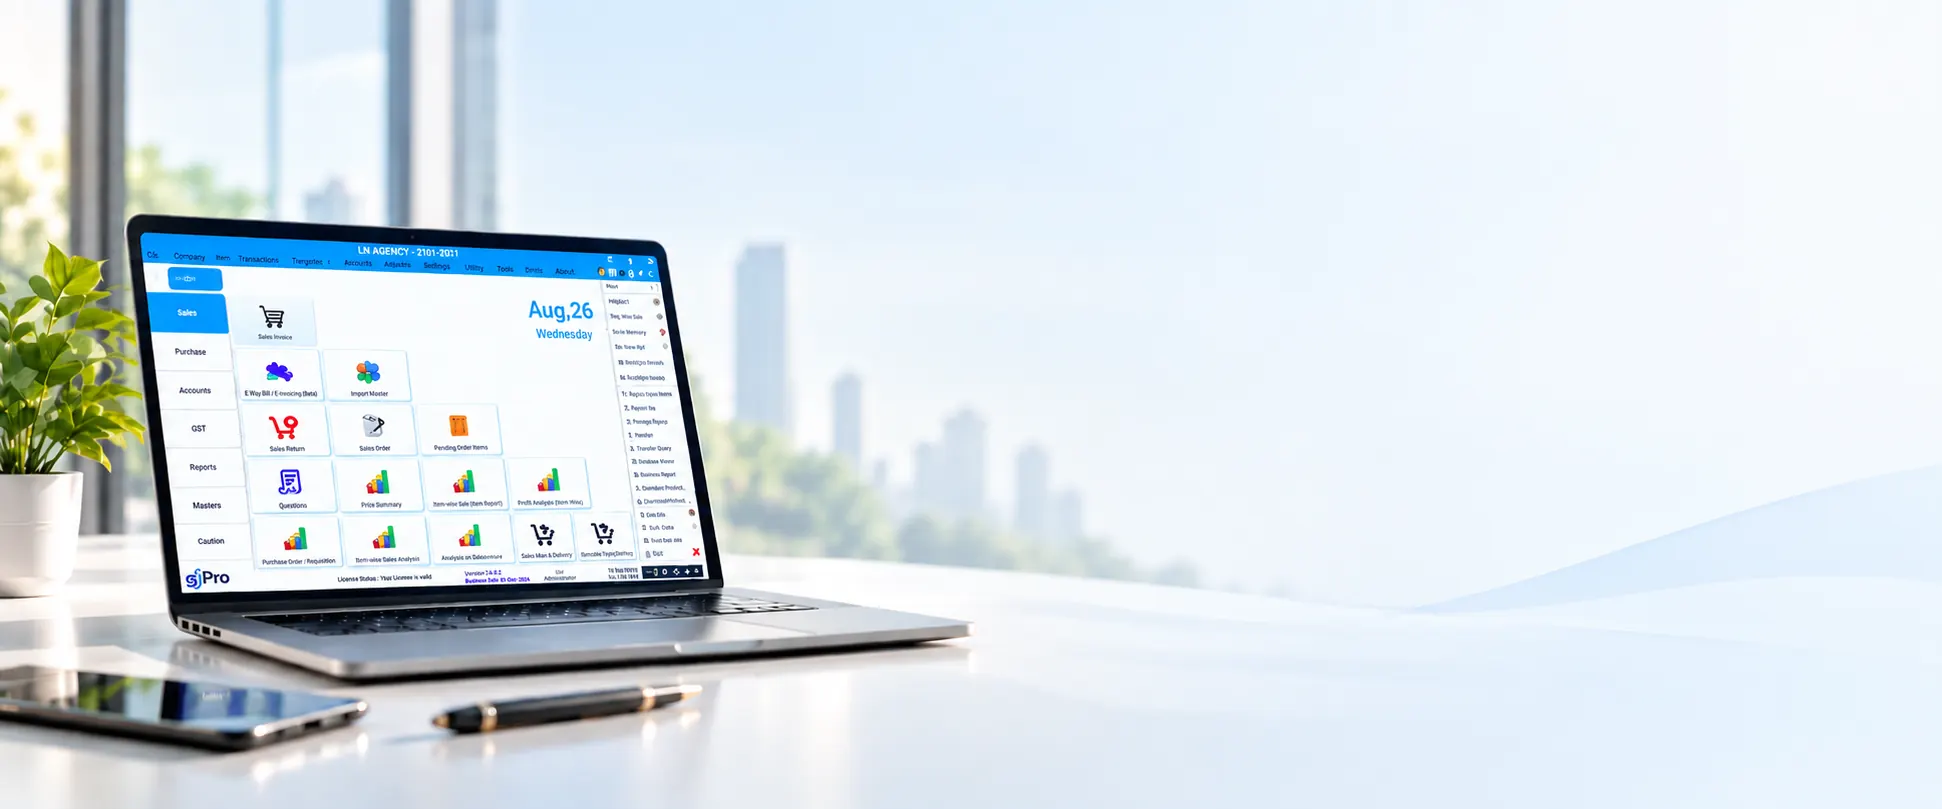
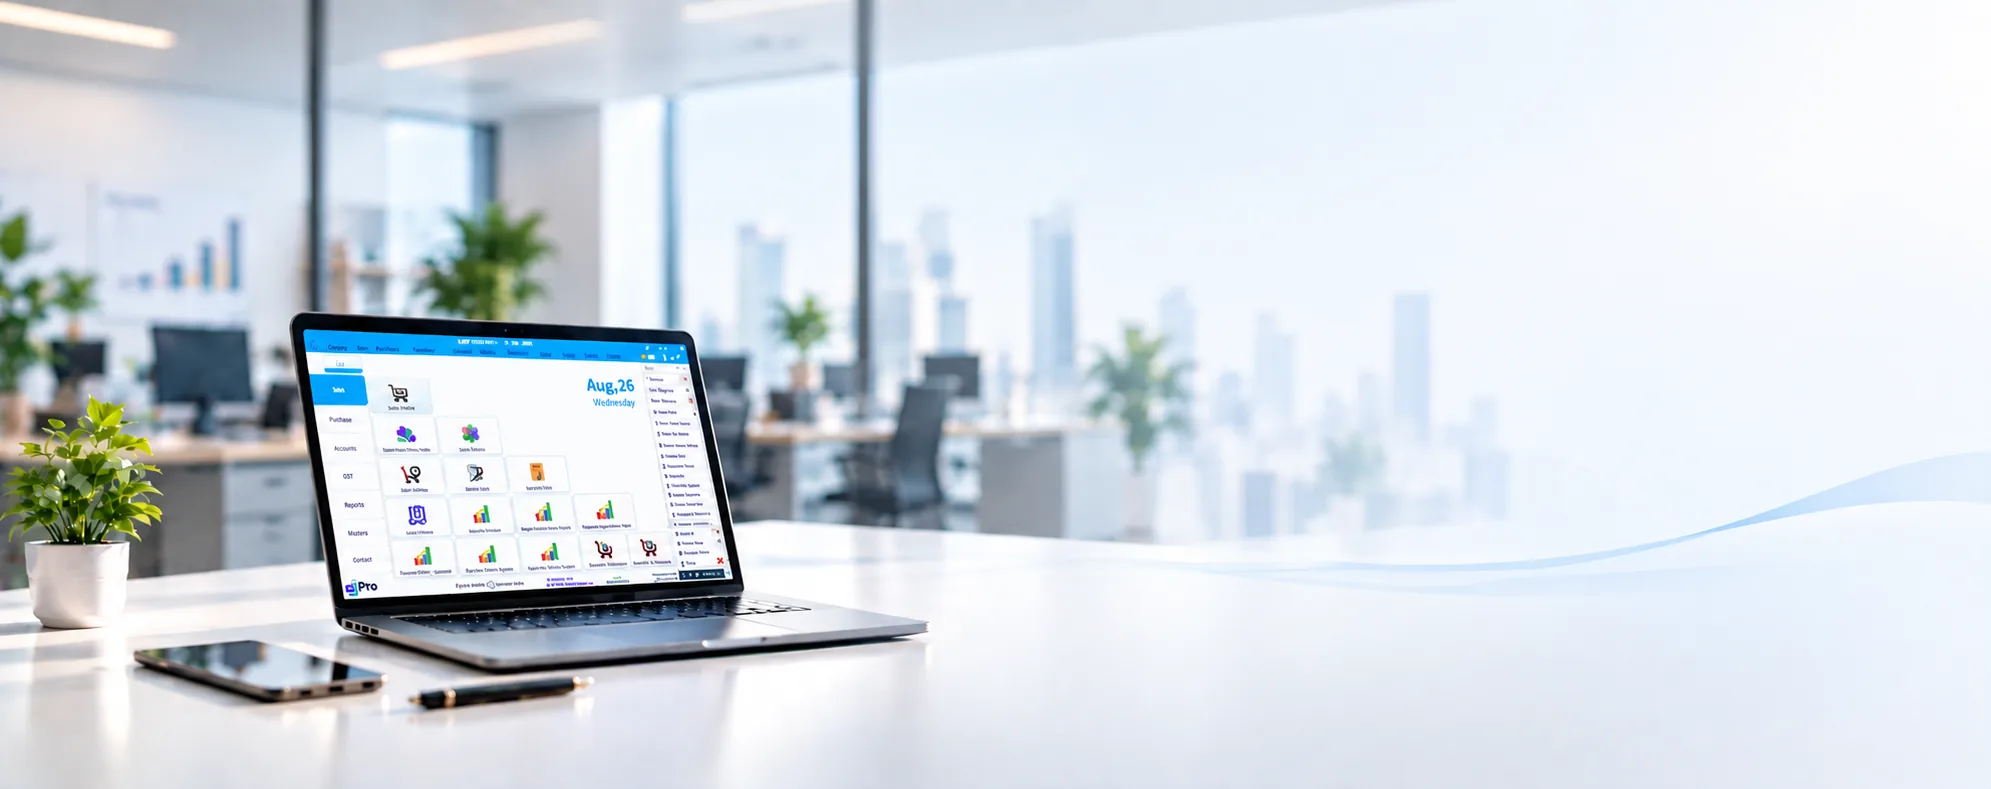
product first sec corrections completed

diff --git a/src/styles/Products.css b/src/styles/Products.css
@@ -16,44 +16,45 @@
 .gpro-hero-content {
   position: absolute;
   top: 50%;
-  right: 6%;
+  right: 10%;
   transform: translateY(-50%);
-  width: 46%;
-  max-width: 640px;
+  width: 48%;
+  max-width: 720px;
   text-align: left;
 }
 
 .gpro-hero-subtitle {
   font-family: "Inter", sans-serif;
-  font-size: 30px;
-  font-weight: 500;
-  color: #1c1c1c;
+  font-size: 13px;
+  font-weight: 700;
+  color: #6b6b6b;
   margin: 0 0 16px;
 }
 
 .gpro-hero-title {
-  font-family: "Inter", sans-serif;
-  font-size: 46px;
-  font-weight: 600;
+  font-family: "Inter", -apple-system, BlinkMacSystemFont, "Segoe UI", Roboto, sans-serif;
+  font-size: clamp(30px, 2.6vw, 50px);
+  font-weight: 400;
+  white-space: nowrap;
   line-height: 1.2;
   color: #1c1c1c;
   margin: 0 0 24px;
 }
 
 .gpro-hero-description {
-  font-family: "Inter", sans-serif;
-  font-size: 22px;
+  font-family: "Inter", -apple-system, BlinkMacSystemFont, "Segoe UI", Roboto, sans-serif;
+  font-size: 19px;
   font-weight: 400;
   line-height: 1.5;
   color: #4a4a4a;
-  margin: 0;
+  margin-top: 60px;
 }
 
 .gpro-hero-buttons {
   display: flex;
   flex-wrap: wrap;
   gap: 16px;
-  margin-top: 28px;
+  margin-top: 98px;
 }
 
 .gpro-hero-btn {
@@ -135,7 +136,7 @@
   }
 
   .gpro-hero-subtitle { font-size: 22px; }
-  .gpro-hero-title { font-size: 32px; }
+  .gpro-hero-title { font-size: 32px; white-space: normal; }
   .gpro-hero-description { font-size: 18px; }
 }
 

diff --git a/src/pages/Products.jsx b/src/pages/Products.jsx
@@ -16,7 +16,7 @@ export default function Products() {
         <div className="image-overlay">
           <div className="gpro-hero-content">
             <p className="gpro-hero-subtitle">gPro · Business Management Software</p>
-            <h1 className="gpro-hero-title">One Platform. Every Part of Your Business.</h1>
+            <h1 className="gpro-hero-title">One Platform. <br /> Every Part of Your Business.</h1>
             <p className="gpro-hero-description">
               gPro brings billing, inventory, taxation, accounting and business
               operations together in one powerful, easy-to-use platform — helping
@@ -42,7 +42,7 @@ export default function Products() {
             </div>
           </div>
           <p className="gpro-hero-trust">
-            Trusted by <strong>{ CUSTOMERS_COUNT }</strong> Businesses · <strong>{  yearsOfExperience }+</strong> Years of Experience
+            Trusted by { CUSTOMERS_COUNT } Businesses Across India · {  yearsOfExperience }+ Years of Experience
           </p>
         </div>
       </section>
